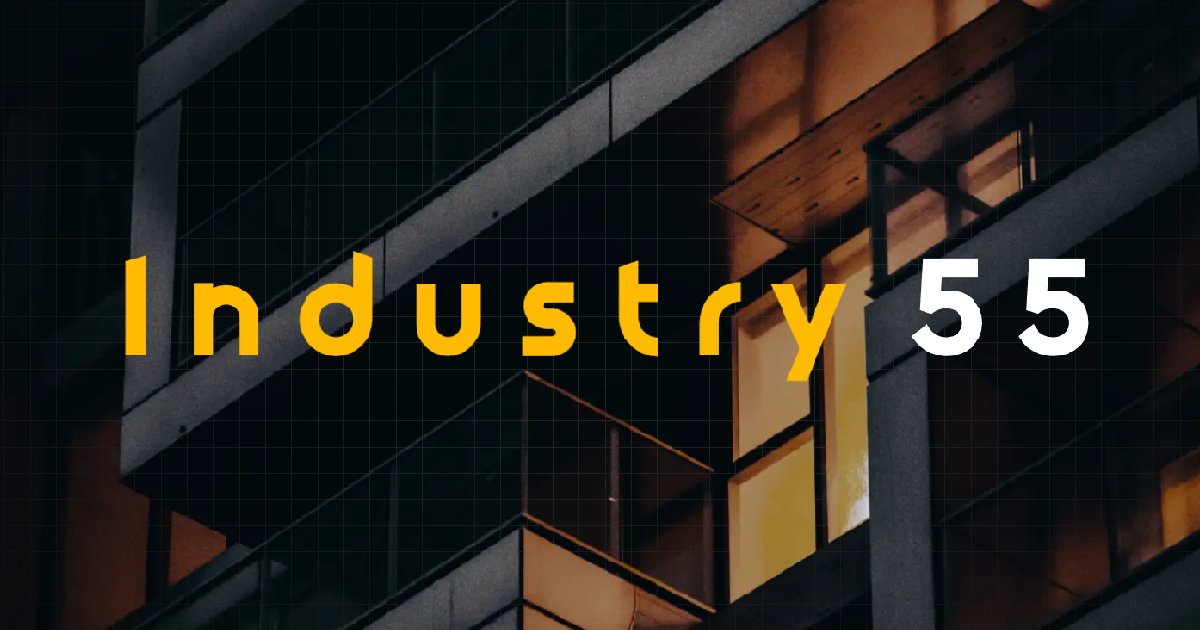
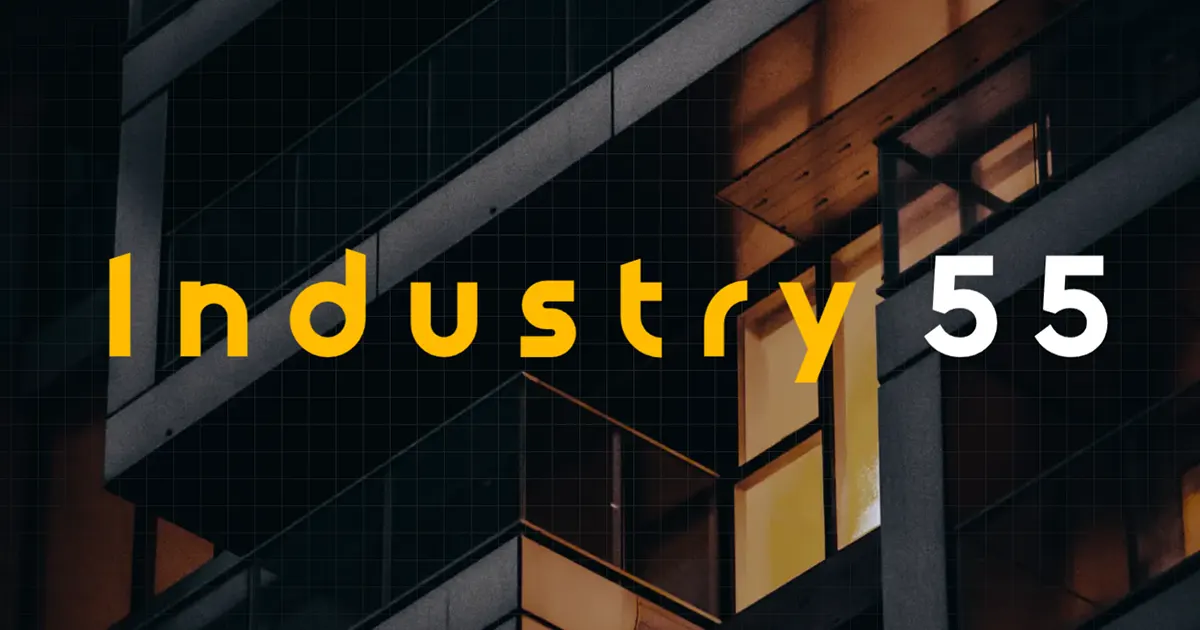
edir images and hero background

diff --git a/components/Hero/Hero.jsx b/components/Hero/Hero.jsx
@@ -1,13 +1,13 @@
 import Image from "next/image"
 import Logo from "./Logo"
-import building from '/public/building.png'
+import building from '/public/building.webp'
 import { Rufina } from "next/font/google"
 const rufina = Rufina({ subsets: ["latin"], weight: ["400", "700"] })
 
 
 function Hero(props) {
     return (
-        <section className="relative h-screen flex flex-col items-center justify-center text-center text-white dark ">
+        <section className="relative bg-black h-screen flex flex-col items-center justify-center text-center text-white dark ">
             <div className="video-docker absolute top-0 left-0 w-full h-full overflow-hidden">
                 <Image fill src={building} alt="luxury appartment image" style={{ objectFit: "cover" }}></Image>
             </div>
